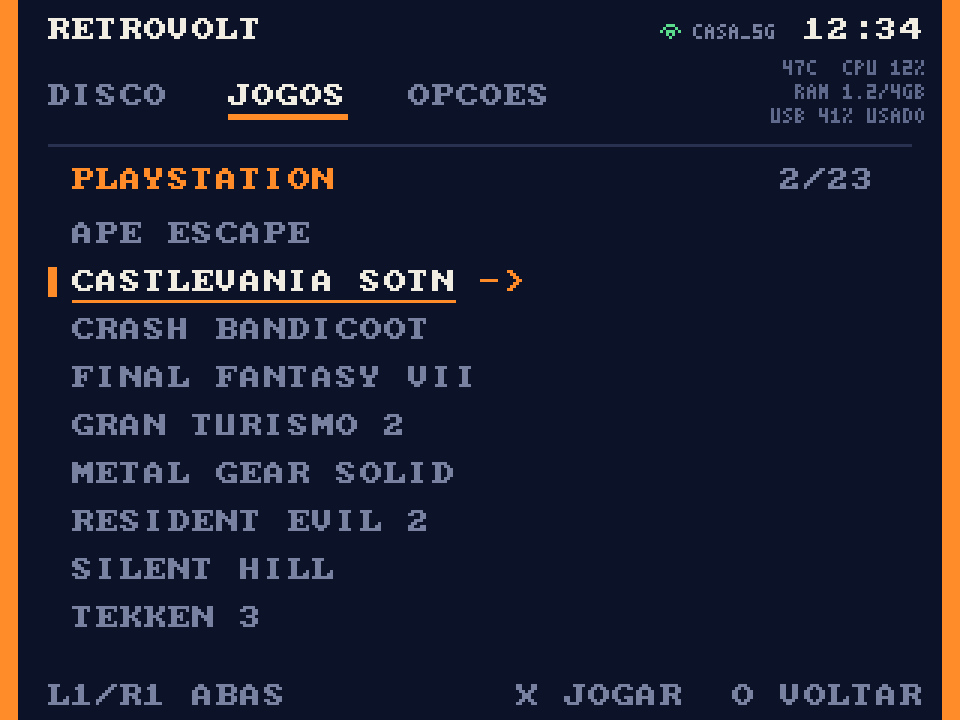
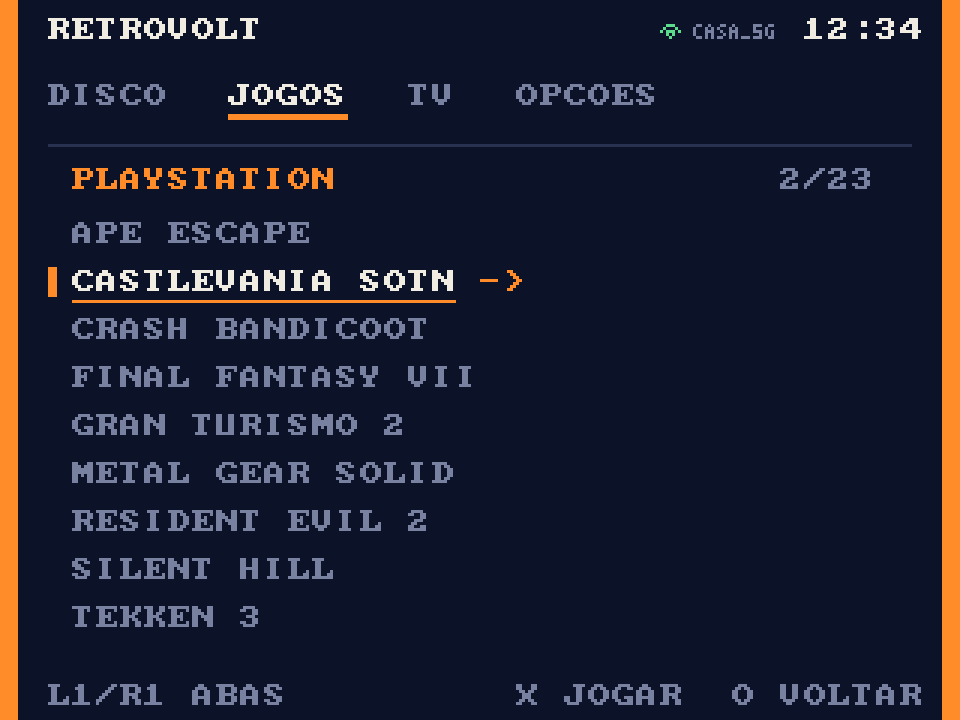
RETROVOLT Pi: aba TV (RetroTV) entre JOGOS e OPCOES; status do sistema em OPCOES > INFO
- mockup rv_F5_tv.png: grades de canais, mini TV com barras de cor, ultimo canal e agora/depois
- plano: integracao do nucleo RetroTV (MIT), FFmpeg 7 do Pi OS Trixie, sem H.264 por
  hardware no Pi 5, pausa limitada a ~3 min no Pi de 2 GB

Claude-Session: https://claude.ai/code/session_013oXuvB1yyyPjaNDGtAhqEA

Changed region(s): [[0.7812, 0.0611, 0.9688, 0.1833], [0.4062, 0.0917, 0.6875, 0.1528]]

diff --git a/retrovolt-pi/mockup/themeF.py b/retrovolt-pi/mockup/themeF.py
@@ -3,6 +3,7 @@ exec(open(sys.argv[2]).read().split("# ===================== D: VIDRO")[0].repla
 OUT=sys.argv[1]
 exec(open(sys.argv[3].replace('themes.py','tiny.py')).read())
 NAV=(12,18,40); OR=(255,140,40); IV=(240,236,225); SL=(120,130,160)
+TABS=["DISCO","JOGOS","TV","OPCOES"]
 def editF(tab, foot_r):
     c=C(NAV)
     c.rect(0,0,6,H,OR); c.rect(W-6,0,6,H,OR)
@@ -14,9 +15,7 @@ def editF(tab, foot_r):
     for r,row in enumerate(WIFI):
         for k,v in enumerate(row):
             if v=='#': c.p(wx-10+k,8+r,(90,220,140))
-    rstxt(c,W-12,20,"47C  CPU 12%",INF)
-    rstxt(c,W-12,28,"RAM 1.2/4GB",INF)
-    rstxt(c,W-12,36,"USB 41% USADO",INF)
+    # (status do sistema fica em OPCOES > INFO)
     x=16
     for n,t in enumerate(TABS):
         on=(n==tab)
@@ -56,15 +55,39 @@ for n,s in enumerate(roms):
     y+=16
 p.txt(W-60,56,"2/23",SL)
 save(up(p),'_F3_pasta.png')
+# TV (RetroTV): cada lista de canais e uma "grade"; cada uma lembra o ultimo canal
+t=editF(2,"X ASSISTIR  O VOLTAR")
+grades=["RETROTV","PLUTO TV BRASIL","IPTV-ORG BRASIL","DESENHOS 90","MINHA LISTA"]
+y=60
+for n,s_ in enumerate(grades):
+    on=(n==1)
+    t.txt(24,y,s_,IV if on else SL)
+    if on: t.rect(16,y-1,3,10,OR); t.rect(24,y+10,len(s_)*8,1,OR); t.txt(24+len(s_)*8+8,y,"->",OR)
+    y+=18
+# mini TV de tubo com barras de cor
+tx,ty=184,62
+t.rect(tx,ty,104,80,(52,56,72)); t.rect(tx+2,ty+2,100,76,(30,32,44))
+bars=[(235,235,235),(235,235,40),(40,235,235),(40,235,40),(235,40,235),(235,40,40),(40,40,235)]
+for i,col in enumerate(bars): t.rect(tx+8+i*13,ty+8,13,44,col)
+for i,col in enumerate([(40,40,235),(20,20,20),(235,40,235),(20,20,20),(40,235,235),(20,20,20),(235,235,235)]): t.rect(tx+8+i*13,ty+52,13,6,col)
+t.rect(tx+8,ty+58,91,12,(20,20,28)); t.txt(tx+12,ty+60,"CH 05",(90,220,140))
+t.rect(tx+30,ty+80,44,4,(52,56,72)); t.rect(tx+20,ty+84,64,2,(40,44,60))
+t.txt(176,154,"ULTIMO CANAL",OR)
+t.txt(176,166,"05 REXTOONS",IV)
+t.txt(176,182,"AGORA",SL); t.txt(224,182,"CAVERNA",IV)
+t.txt(176,192,"DEPOIS",SL); t.txt(232,192,"PICA-PAU",IV)
+t.txt(24,160,"142 CANAIS",SL)
+t.txt(24,172,"GUIA OK",(90,220,140))
+save(up(t),'_F5_tv.png')
 # OPCOES
-o=editF(2,"X ENTRAR  O VOLTAR")
-opts=[("VOLUME GERAL","8/10"),("VIDEO","TUBO 15KHZ"),("CONVERGENCIA",""),("CONTROLES",""),("WI-FI","CASA_5G"),("LEITORA","ASUS 08D1S"),("PASTAS DE JOGOS","USB"),("SISTEMA",""),("REINICIAR",""),("DESLIGAR","")]
+o=editF(3,"X ENTRAR  O VOLTAR")
+opts=[("VOLUME GERAL","8/10"),("VIDEO","TUBO 15KHZ"),("CONVERGENCIA",""),("CONTROLES",""),("WI-FI","CASA_5G"),("LEITORA","ASUS 08D1S"),("PASTAS DE JOGOS","USB"),("SISTEMA",""),("INFO","47C"),("REINICIAR",""),("DESLIGAR","")]
 y=60
 for n,(k,v) in enumerate(opts):
     on=(n==2)
-    col=IV if on else (SL if n<8 else (230,110,90))
+    col=IV if on else (SL if n<9 else (230,110,90))
     o.txt(24,y,k,col)
     if v: o.rtxt(W-14,y,v,OR if on else (170,150,120))
     if on: o.rect(16,y-1,3,10,OR); o.rect(24,y+10,len(k)*8,1,OR); o.txt(24+len(k)*8+8,y,"->",OR)
-    y+=16
+    y+=15
 save(up(o),'_F4_opcoes.png')

diff --git a/retrovolt-pi/DESIGN.md b/retrovolt-pi/DESIGN.md
@@ -11,7 +11,7 @@ HDMI > componente para TV de tubo). Detalhes tecnicos e fases ficam no plano.
 - Topo: "RETROVOLT" a esquerda, relogio a direita.
 - Ao lado (a esquerda) do relogio: icone de Wi-Fi + nome da rede quando
   conectado; "SEM WI-FI" quando nao conectado. Em fonte pequena (3x5).
-- Abas DISCO / JOGOS / OPCOES, trocadas com L1/R1, SEM numeros, fonte normal
+- Abas DISCO / JOGOS / TV / OPCOES, trocadas com L1/R1, SEM numeros, fonte normal
   (8x8, mesmo tamanho do resto); aba ativa em marfim com sublinhado laranja.
 - Listas uma embaixo da outra, sem numeros e sem contagem de itens.
 - Item selecionado: marca laranja a esquerda, nome em marfim sublinhado em
@@ -28,8 +28,15 @@ HDMI > componente para TV de tubo). Detalhes tecnicos e fases ficam no plano.
    (aprox. x 172-292, y 66-202 em 320x240) mostra uma imagem em ALTA RESOLUCAO
    do console selecionado, SEM moldura, trocando conforme a selecao.
    As imagens serao enviadas pelo autor no futuro.
-3. OPCOES: volume geral, video, convergencia (laterais amarelas), controles,
+3. TV (RetroTV, mockup `rv_F5_tv.png`): lista das "grades" de canais (cada
+   arquivo .txt/.m3u da pasta TV e uma grade; cada uma lembra o ultimo canal).
+   A direita: mini TV de tubo com barras de cor e "CH nn", ULTIMO CANAL,
+   AGORA / DEPOIS (do guia). Embaixo da lista: total de canais e estado do guia.
+   X ASSISTIR abre o RetroTV na grade escolhida (dentro dele vale a interface
+   propria do RetroTV: banner, guia, lista de canais, estatica, NO SIGNAL).
+4. OPCOES: volume geral, video, convergencia (laterais amarelas), controles,
    Wi-Fi, leitora, pastas de jogos, sistema, INFO, REINICIAR e DESLIGAR (vermelho).
+   (Status do sistema saiu de baixo do relogio; mockups atualizados.)
    INFO: temperatura, uso da CPU, memoria (RAM) e o dispositivo de jogos
    (SD ou pendrive, escolhido em PASTAS DE JOGOS) com o espaco usado.
    (Essas informacoes NAO ficam mais embaixo do relogio.)

diff --git a/retrovolt-pi/PLANO.md b/retrovolt-pi/PLANO.md
@@ -80,3 +80,19 @@ HDMI (Pi 5) > adaptador HDMI-VGA > conversor VGA-componente > TV de tubo
 (boot ja em 240p), instalador automatico no 1o boot, SSH/Wi-Fi para log.
 Primeiro teste: tela que alterna sozinha entre variantes de 240p (com o nome
 de cada uma na tela e no log), para achar o sinal certo num boot so.
+
+## TV: RetroTV (aprovado)
+- Nucleo libretro RetroTV (github.com/chris-skitch/retrotv-libretro, licenca MIT),
+  o mesmo usado no ReplayOS: listas IPTV M3U (MPEG-TS/HLS), guia XMLTV,
+  troca de canal, estatica, NO SIGNAL, 4:3 / 240p / 50 Hz para tubo.
+- Integracao: o frontend abre o nucleo com a "grade" escolhida como conteudo
+  (arquivo .txt com o link M3U e opcional `epg=`, ou um .m3u). Pasta das grades:
+  `RETROVOLT/TV/` no pendrive (ou na pasta de dados). As partes de instalacao
+  do ReplayOS (install.sh, .cfg do ReplayOS) sao trocadas pelo nosso lancador.
+- Dependencia: o RetroTV carrega o FFmpeg do sistema por dlopen
+  (`libavcodec.so.61` = FFmpeg 7): usar Raspberry Pi OS baseado no Debian
+  Trixie (o Bookworm traz FFmpeg 5 e nao serve).
+- Decodificacao: o Pi 5 NAO tem decodificador H.264 por hardware (so HEVC);
+  H.264 ate 1080p roda por software nos 4 nucleos A76, com folga para 720p.
+- Memoria (Pi de 2 GB): a pausa do RetroTV guarda ate ~15 min na RAM
+  (~1 GB a 8-10 Mbit/s). Limitar a ~3 min (~250 MB) nesta placa.
